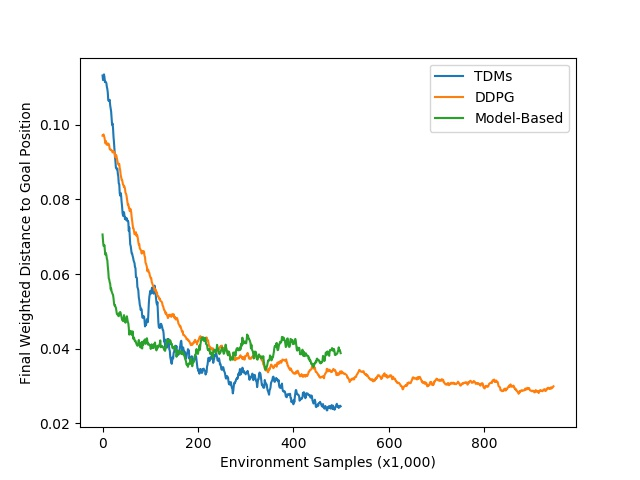
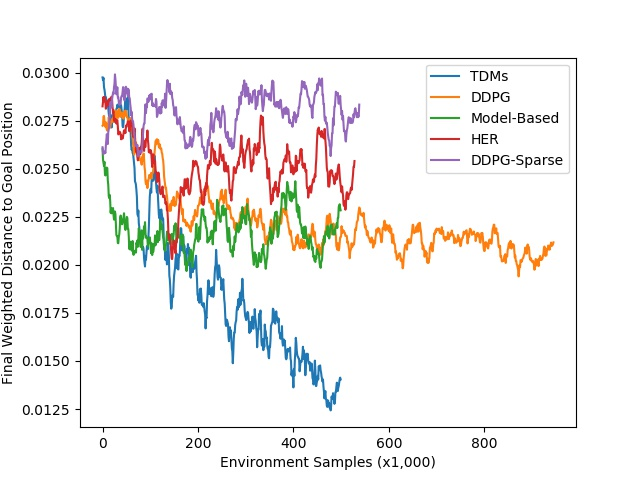
launch final gym pusher and other small changes

diff --git a/experiments/state_distance/baselines/her_v2.py b/experiments/state_distance/baselines/her_v2.py
@@ -98,16 +98,17 @@ def experiment(variant):
 if __name__ == "__main__":
     n_seeds = 1
     mode = "local"
+    mode = "local_docker"
     exp_prefix = "dev-her"
 
     n_seeds = 3
     mode = "ec2"
-    exp_prefix = "final-ant-max-distance-6"
+    exp_prefix = "final-gym-pusher3d"
 
     num_epochs = 1000
     num_steps_per_epoch = 1000
     num_steps_per_eval = 1000
-    max_path_length = 50
+    max_path_length = 100
 
     # noinspection PyTypeChecker
     variant = dict(
@@ -167,8 +168,8 @@ if __name__ == "__main__":
         'env_class': [
             # GoalXVelHalfCheetah,
             # GoalXPosHalfCheetah,
-            GoalXYPosAnt,
-            # GoalXYGymPusherEnv,
+            # GoalXYPosAnt,
+            GoalXYGymPusherEnv,
             # CylinderXYPusher2DEnv,
             # Reacher7DofXyzGoalState,
             # MultitaskPusher3DEnv,
@@ -182,9 +183,9 @@ if __name__ == "__main__":
         #     (0.01, 0.01, 0.99, 0.99),
         #     (0.1, 0.1, 0.9, 0.9),
         # ],
-        'env_kwargs.max_distance': [
-            6,
-        ],
+        # 'env_kwargs.max_distance': [
+        #     6,
+        # ],
         'qf_criterion_class': [
             nn.MSELoss,
         ],
@@ -195,7 +196,7 @@ if __name__ == "__main__":
             4,
         ],
         'ddpg_tdm_kwargs.base_kwargs.reward_scale': [
-            0.01, 1, 100, 10000
+            100,
         ],
         'ddpg_tdm_kwargs.base_kwargs.num_updates_per_env_step': [
             1, 5, 10,
@@ -207,7 +208,7 @@ if __name__ == "__main__":
             0.05,
         ],
         'ddpg_tdm_kwargs.ddpg_kwargs.policy_pre_activation_weight': [
-            0.01,
+            0.01, 0.1
         ],
         'ddpg_tdm_kwargs.ddpg_kwargs.eval_with_target_policy': [
             True,

diff --git a/experiments/state_distance/iclr2018/ant_target_pos_and_vel_results.py b/experiments/state_distance/iclr2018/ant_target_pos_and_vel_results.py
@@ -30,21 +30,41 @@ def main():
             'algorithm': 'DDPG',
         }
     ).get_trials()
+    her_trials = Experiment(
+        "/home/vitchyr/git/railrl/data/doodads3/01-03-ant-pos-and-vel-her-and-sparse-ddpg/",
+        criteria={
+            # 'exp_id': '27',  # weight 0.99
+            'exp_id': '37',  # weight 0.9
+        },
+    ).get_trials()
+    ddpg_sparse_trials = Experiment(
+        "/home/vitchyr/git/railrl/data/doodads3/01-03-ant-pos-and-vel-her-and-sparse-ddpg/",
+        criteria={
+            # 'exp_id': '56',  # weight 0.99
+            'exp_id': '90',  # weight 0.9
+        },
+    ).get_trials()
 
     MAX_ITERS = 1000000
 
     plt.figure()
-    key1 = 'Final_weighted_vel_error_Mean'
-    key2 = 'Final_weighted_pos_error_Mean'
+    vel_key = 'Final_weighted_vel_error_Mean'
+    pos_key = 'Final_weighted_pos_error_Mean'
+    speed_weight = 0.9
     for trials, name in [
         (tdm_trials, 'TDMs'),
         (ddpg_trials, 'DDPG'),
         (mb_trials, 'Model-Based'),
+        (her_trials, 'HER'),
+        (ddpg_sparse_trials, 'DDPG-Sparse'),
     ]:
         all_values = []
         for trial in trials:
             try:
-                values_ts = trial.data[key1] + trial.data[key2]
+                values_ts = (
+                    speed_weight * trial.data[vel_key]
+                    + (1 - speed_weight) * trial.data[pos_key]
+                )
                 values_ts = sliding_mean(values_ts, window=10)
             except:
                 import ipdb; ipdb.set_trace()

diff --git a/experiments/state_distance/tdm/ddpg_tdm_launch.py b/experiments/state_distance/tdm/ddpg_tdm_launch.py
@@ -104,16 +104,17 @@ def experiment(variant):
 if __name__ == "__main__":
     n_seeds = 1
     mode = "local"
+    mode = "local_docker"
     exp_prefix = "dev-ddpg-tdm-launch-2"
 
     n_seeds = 3
     mode = "ec2"
-    exp_prefix = "final-ant-max-distance-6"
+    exp_prefix = "final-gym-pusher3d"
 
     num_epochs = 1000
     num_steps_per_epoch = 1000
     num_steps_per_eval = 1000
-    max_path_length = 50
+    max_path_length = 100
 
     # noinspection PyTypeChecker
     variant = dict(
@@ -170,18 +171,18 @@ if __name__ == "__main__":
         'env_class': [
             # GoalXVelHalfCheetah,
             # GoalXPosHalfCheetah,
-            GoalXYPosAnt,
+            # GoalXYPosAnt,
             # Reacher7DofXyzPosAndVelGoalState,
             # GoalXYPosAndVelAnt,
             # MultitaskPusher3DEnv,
             # Reacher7DofXyzGoalState,
             # CylinderXYPusher2DEnv,
             # Walker2DTargetXPos,
-            # GoalXYGymPusherEnv,
+            GoalXYGymPusherEnv,
         ],
-        'env_kwargs.max_distance': [
-            6,
-        ],
+        # 'env_kwargs.max_distance': [
+        #     6,
+        # ],
         # 'env_kwargs.min_distance': [
         #     3,
         # ],
@@ -205,7 +206,7 @@ if __name__ == "__main__":
             dict(theta=0.1, max_sigma=0.1, min_sigma=0.1),
         ],
         'ddpg_tdm_kwargs.tdm_kwargs.max_tau': [
-            49,
+            15, 33
         ],
         'ddpg_tdm_kwargs.tdm_kwargs.dense_rewards': [
             False,

diff --git a/experiments/state_distance/baselines/dagger.py b/experiments/state_distance/baselines/dagger.py
@@ -86,12 +86,12 @@ if __name__ == "__main__":
 
     n_seeds = 3
     mode = "ec2"
-    exp_prefix = "final-ant-max-distance-6"
+    exp_prefix = "final-gym-pusher3d"
 
     num_epochs = 1000
     num_steps_per_epoch = 1000
     num_steps_per_eval = 1000
-    max_path_length = 50
+    max_path_length = 100
 
     # noinspection PyTypeChecker
     variant = dict(
@@ -131,9 +131,9 @@ if __name__ == "__main__":
         'env_class': [
             # GoalXVelHalfCheetah,
             # Reacher7DofXyzGoalState,
-            GoalXYPosAnt,
+            # GoalXYPosAnt,
             # GoalXPosHalfCheetah,
-            # GoalXYGymPusherEnv,
+            GoalXYGymPusherEnv,
             # MultitaskPusher3DEnv,
             # GoalXPosHopper,
             # Reacher7DofXyzPosAndVelGoalState,
@@ -141,9 +141,9 @@ if __name__ == "__main__":
             # CylinderXYPusher2DEnv,
             # Walker2DTargetXPos,
         ],
-        'env_kwargs.max_distance': [
-            6,
-        ],
+        # 'env_kwargs.max_distance': [
+        #     6,
+        # ],
         # 'env_kwargs.min_distance': [
         #     3,
         # ],
@@ -176,7 +176,7 @@ if __name__ == "__main__":
         #     max_path_length,
         # ],
         'algo_kwargs.num_updates_per_env_step': [
-            1, 5, 10,
+            1, 5, 10
         ],
         'algo_kwargs.num_paths_for_normalization': [20],
         'ou_kawrgs.max_sigma': [0.1, 0],

diff --git a/experiments/state_distance/baselines/ddpg.py b/experiments/state_distance/baselines/ddpg.py
@@ -76,12 +76,12 @@ if __name__ == "__main__":
 
     n_seeds = 3
     mode = "ec2"
-    exp_prefix = "final-ant-max-distance-6"
+    exp_prefix = "final-gym-pusher3d"
 
     num_epochs = 1000
     num_steps_per_epoch = 1000
     num_steps_per_eval = 1000
-    max_path_length = 50
+    max_path_length = 100
 
     # noinspection PyTypeChecker
     variant = dict(
@@ -125,9 +125,9 @@ if __name__ == "__main__":
             # GoalXYPosAnt,
             # Reacher7DofXyzPosAndVelGoalState,
             # GoalXPosHopper,
-            GoalXYPosAndVelAnt,
+            # GoalXYPosAndVelAnt,
             # GoalXPosHalfCheetah,
-            # GoalXYGymPusherEnv,
+            GoalXYGymPusherEnv,
             # CylinderXYPusher2DEnv,
             # GoalXPosHalfCheetah,
             # MultitaskPusher3DEnv,
@@ -150,9 +150,9 @@ if __name__ == "__main__":
         # 'env_kwargs.done_threshold': [
         #     0.005, 0.001, 0.0005
         # ],
-        'env_kwargs.max_distance': [
-            6,
-        ],
+        # 'env_kwargs.max_distance': [
+        #     6,
+        # ],
         # 'env_kwargs.action_penalty': [
         #     1e-3, 0,
         # ],
@@ -173,7 +173,7 @@ if __name__ == "__main__":
             1, 5, 10,
         ],
         'algo_kwargs.reward_scale': [
-            0.01, 1, 100,
+            1, 10, 100,
         ],
         # 'algo_kwargs.tau': [
         #     0.01, 0.001,
